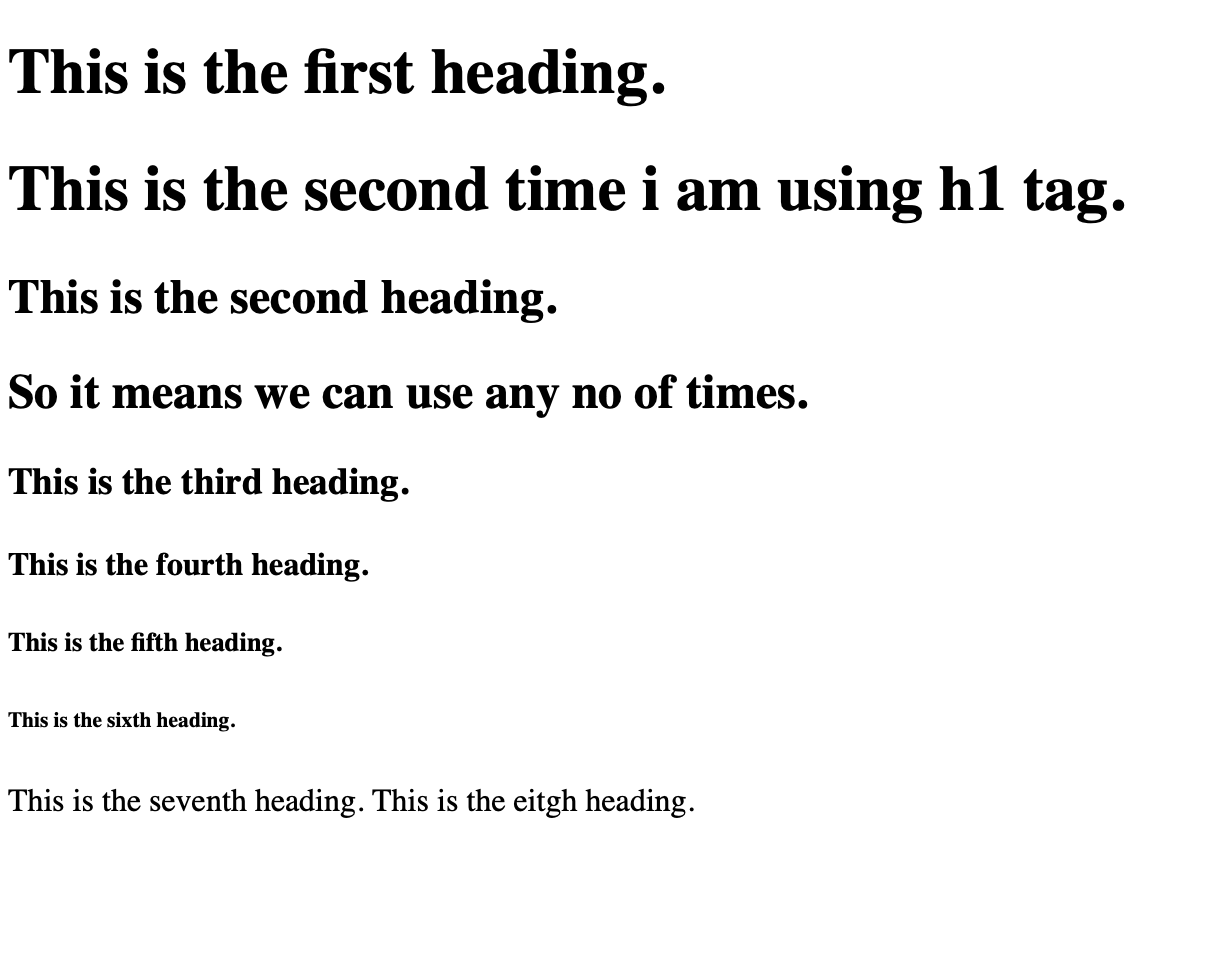
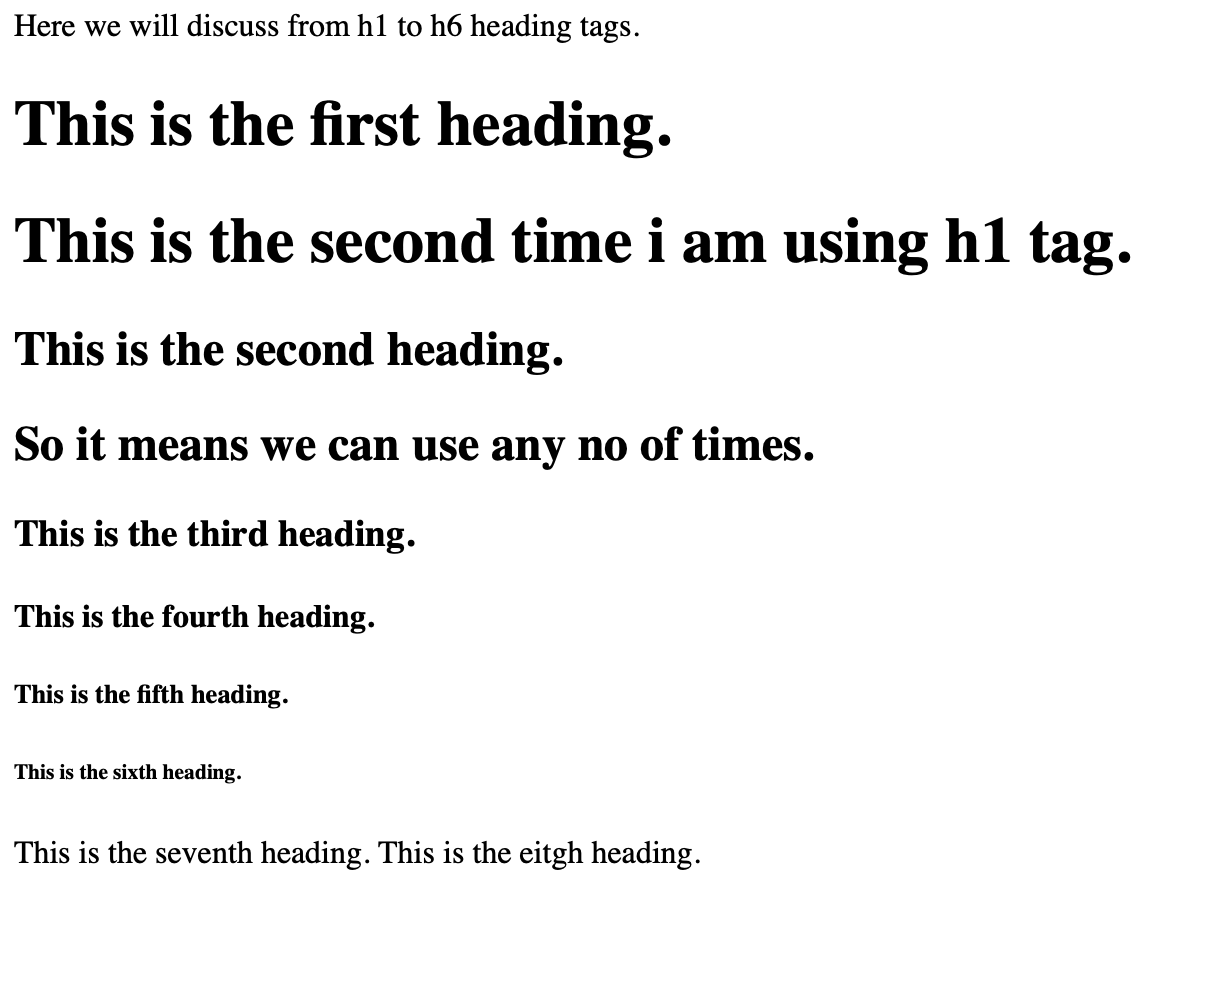
headings.html

Changed region(s): [[0.0, 0.0, 0.9375, 0.8607]]

diff --git a/headings/headings.html b/headings/headings.html
@@ -4,6 +4,8 @@
     
     <head>
         
+        Here we will discuss from h1 to h6 heading tags.
+
     </head>
     
     <body>
